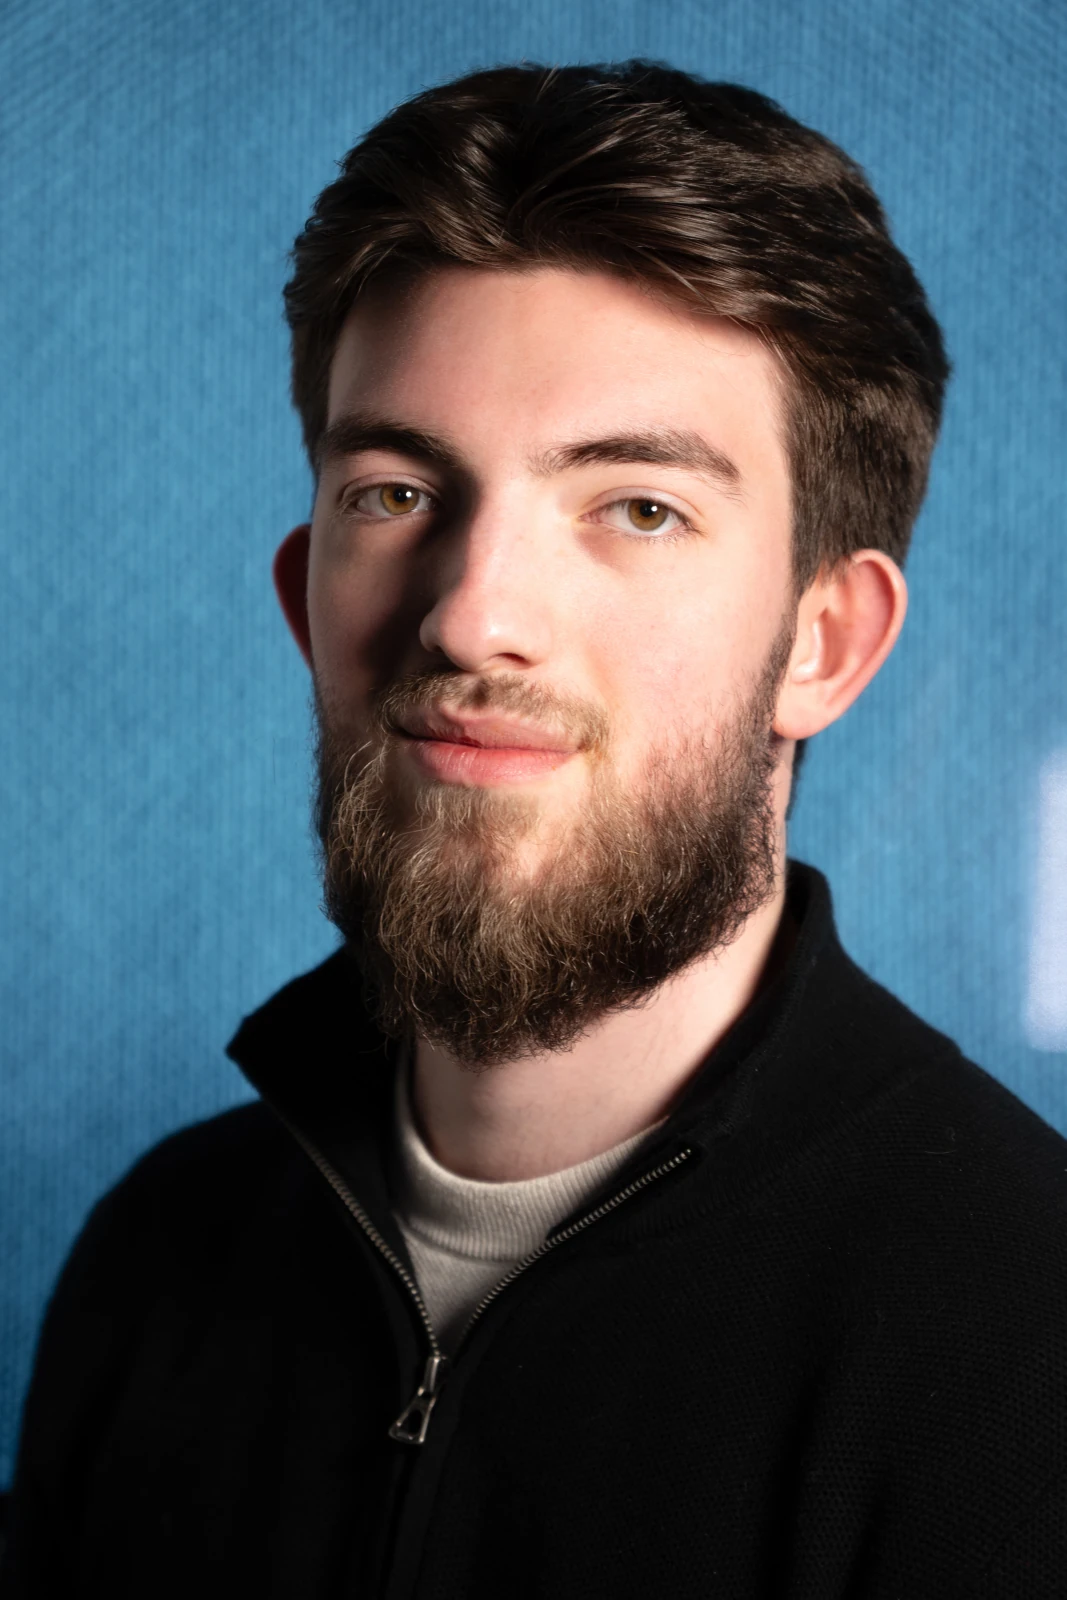
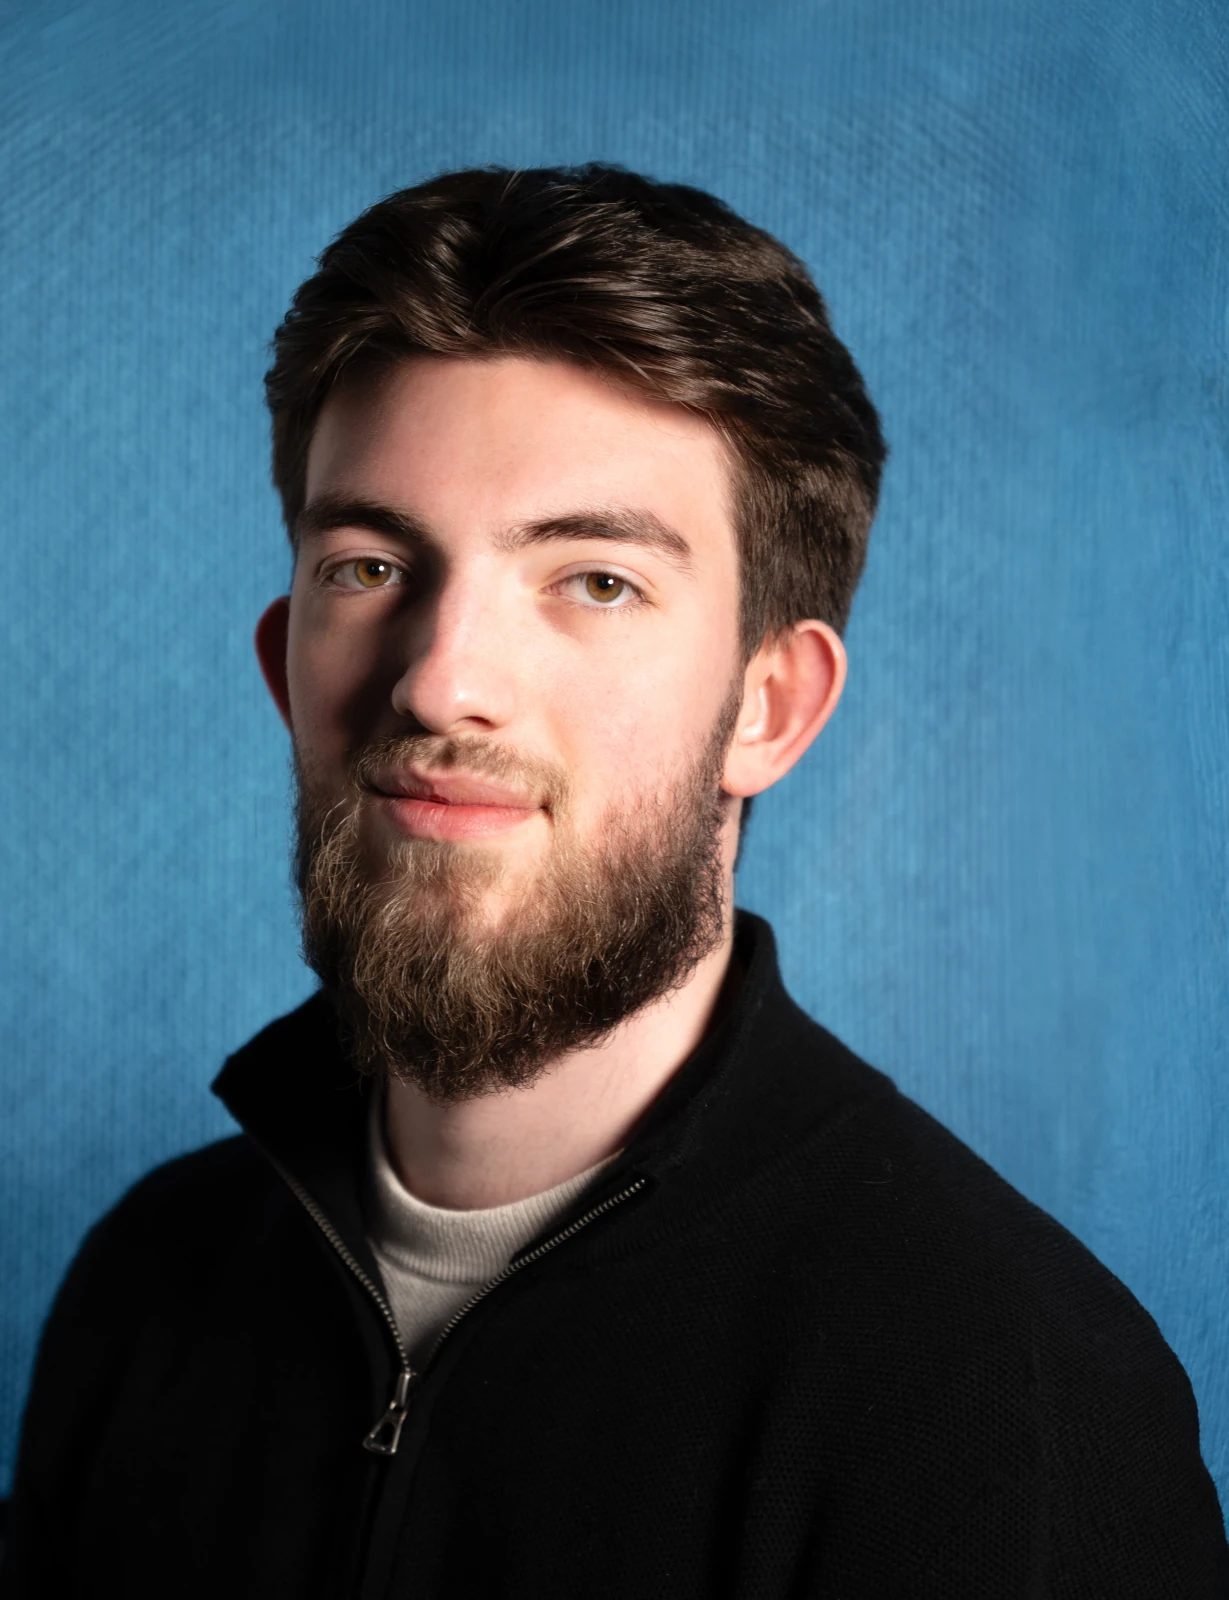
actually fix the pix

diff --git a/src/app/[locale]/about-us/page.tsx b/src/app/[locale]/about-us/page.tsx
@@ -12,7 +12,7 @@ export default function AboutUsPage() {
       role: "Founder & CEO", // fallback
       bio: "Founder bridging strategy and engineering; hands-on across every build.", // fallback
       avatarSrc: "/portraits/gunder.webp",
-      avatarPosition: "center 22%",
+      avatarPosition: "center 30%",
       skills: ["React", "Next.js", "Node.js", "Strategy"],
       email: "gunder@syntaxstudio.no",
       phone: "+47 9444 3355",
@@ -25,7 +25,8 @@ export default function AboutUsPage() {
       role: "Partner & Chief Architect",
       bio: "Partner who turns ideas into robust, scalable systems.",
       avatarSrc: "/portraits/rasul.webp",
-      avatarPosition: "center 8%",
+      avatarPosition: "center 2%",
+      avatarTransform: "scale(1.15) translate(6%, 2%)",
       skills: ["Python", "AI", "Systems Architecture", "Database"],
       email: "rasul@syntaxstudio.no",
       phone: "+47 4639 6797",

diff --git a/src/components/team/member-card.tsx b/src/components/team/member-card.tsx
@@ -136,7 +136,14 @@ export default function MemberCard({
                     <AvatarImage
                       src={m.avatarSrc}
                       alt={m.name}
-                      style={m.avatarPosition ? { objectPosition: m.avatarPosition } : undefined}
+                      style={
+                        m.avatarPosition || m.avatarTransform
+                          ? {
+                              ...(m.avatarPosition ? { objectPosition: m.avatarPosition } : {}),
+                              ...(m.avatarTransform ? { transform: m.avatarTransform } : {}),
+                            }
+                          : undefined
+                      }
                     />
                     <AvatarFallback>
                       {m.name

diff --git a/src/components/team/types.ts b/src/components/team/types.ts
@@ -10,6 +10,8 @@ export type Member = {
     avatarSrc?: string;
     /** CSS object-position for the avatar image (e.g. "center 20%") */
     avatarPosition?: string;
+    /** CSS transform for the avatar image (e.g. "scale(1.15) translateX(-6%)") */
+    avatarTransform?: string;
     socials?: Partial<{ twitter: string; github: string; linkedin: string }>;
     /** Discord user ID for presence */
     discordId?: string;
